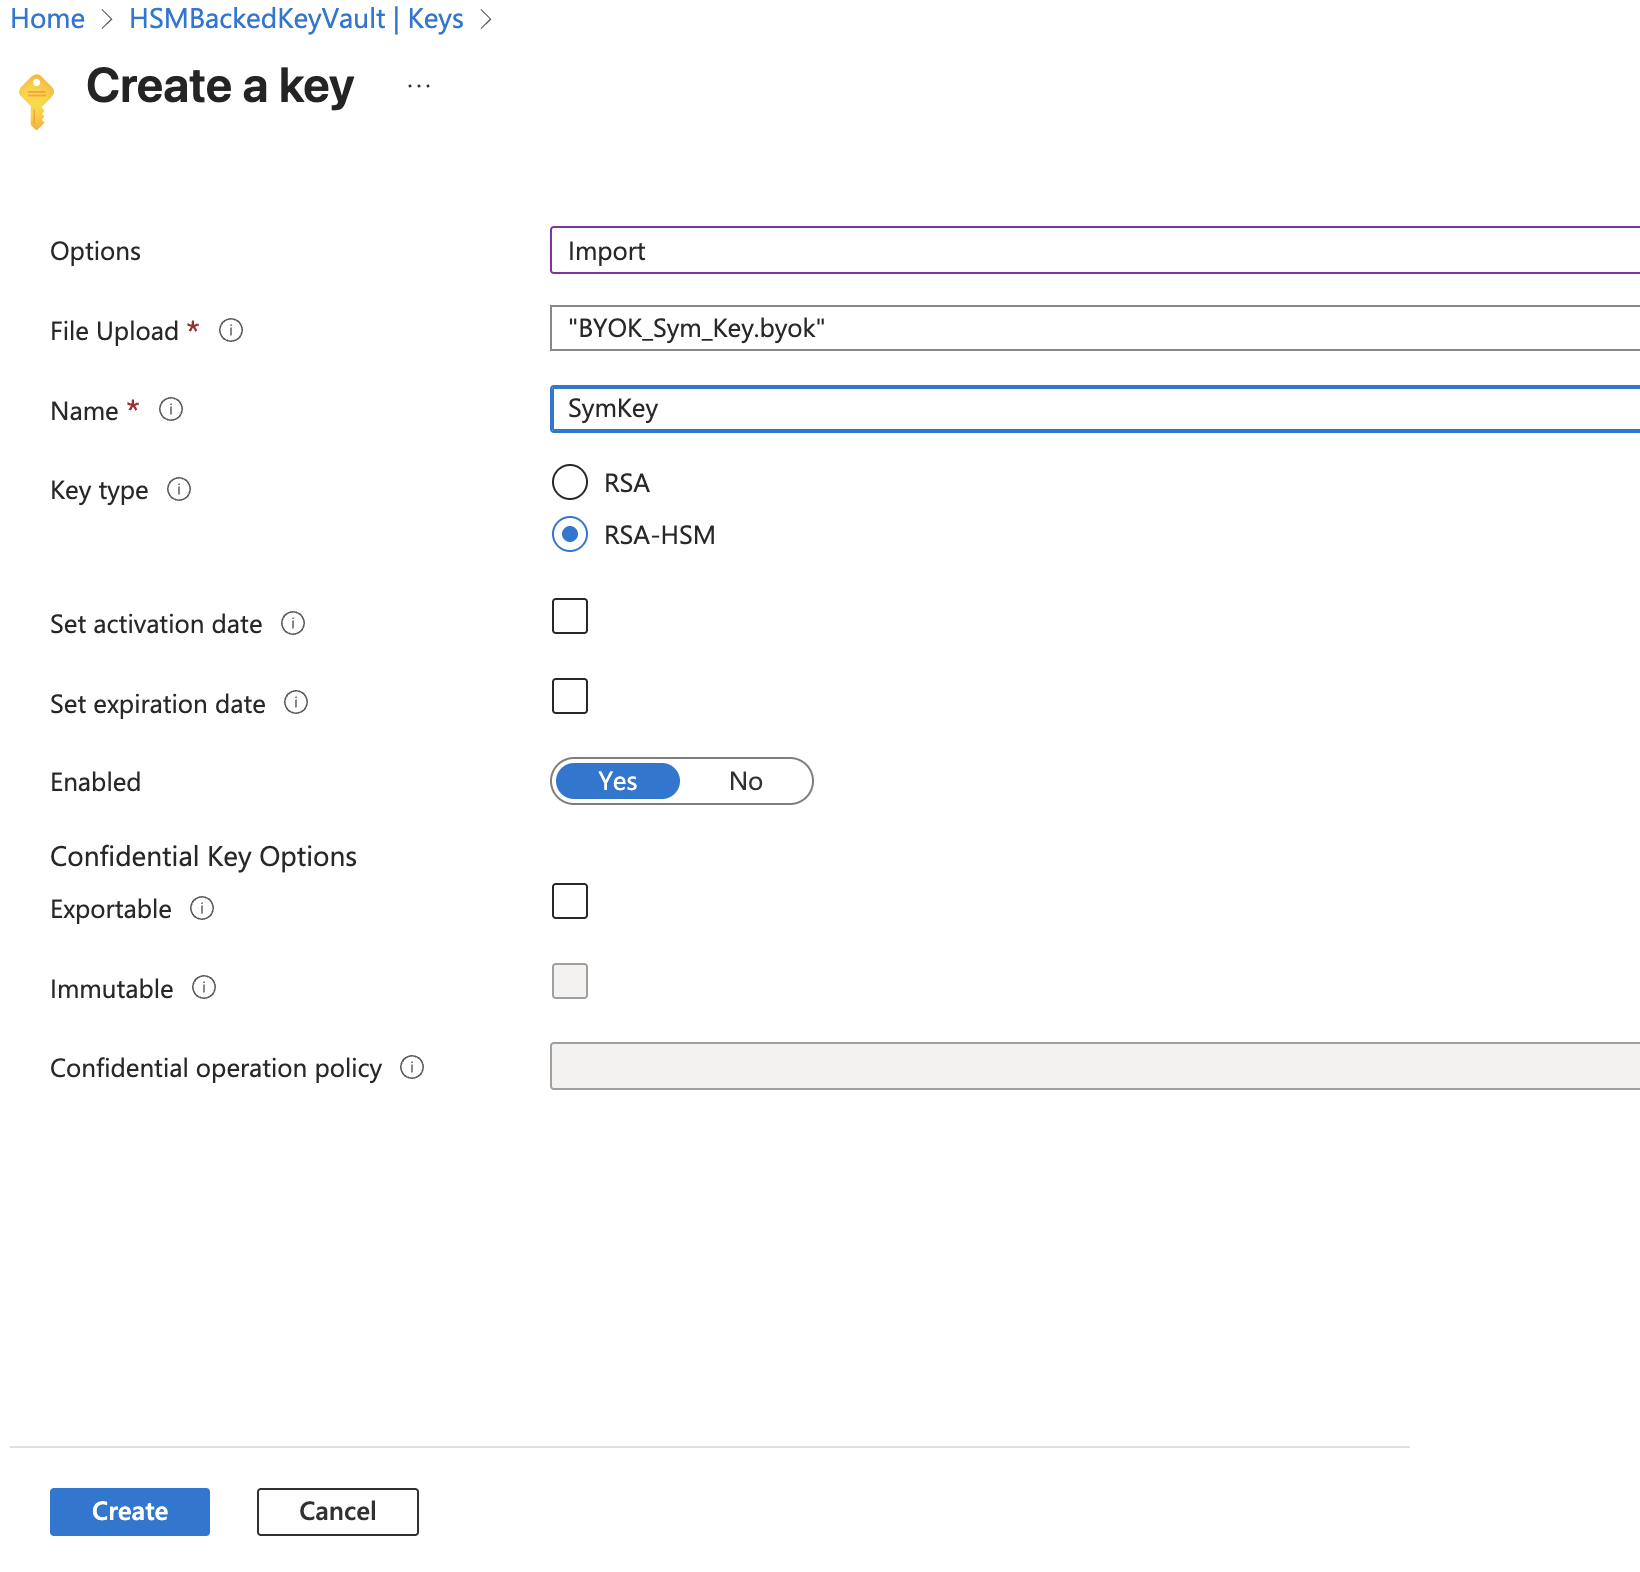
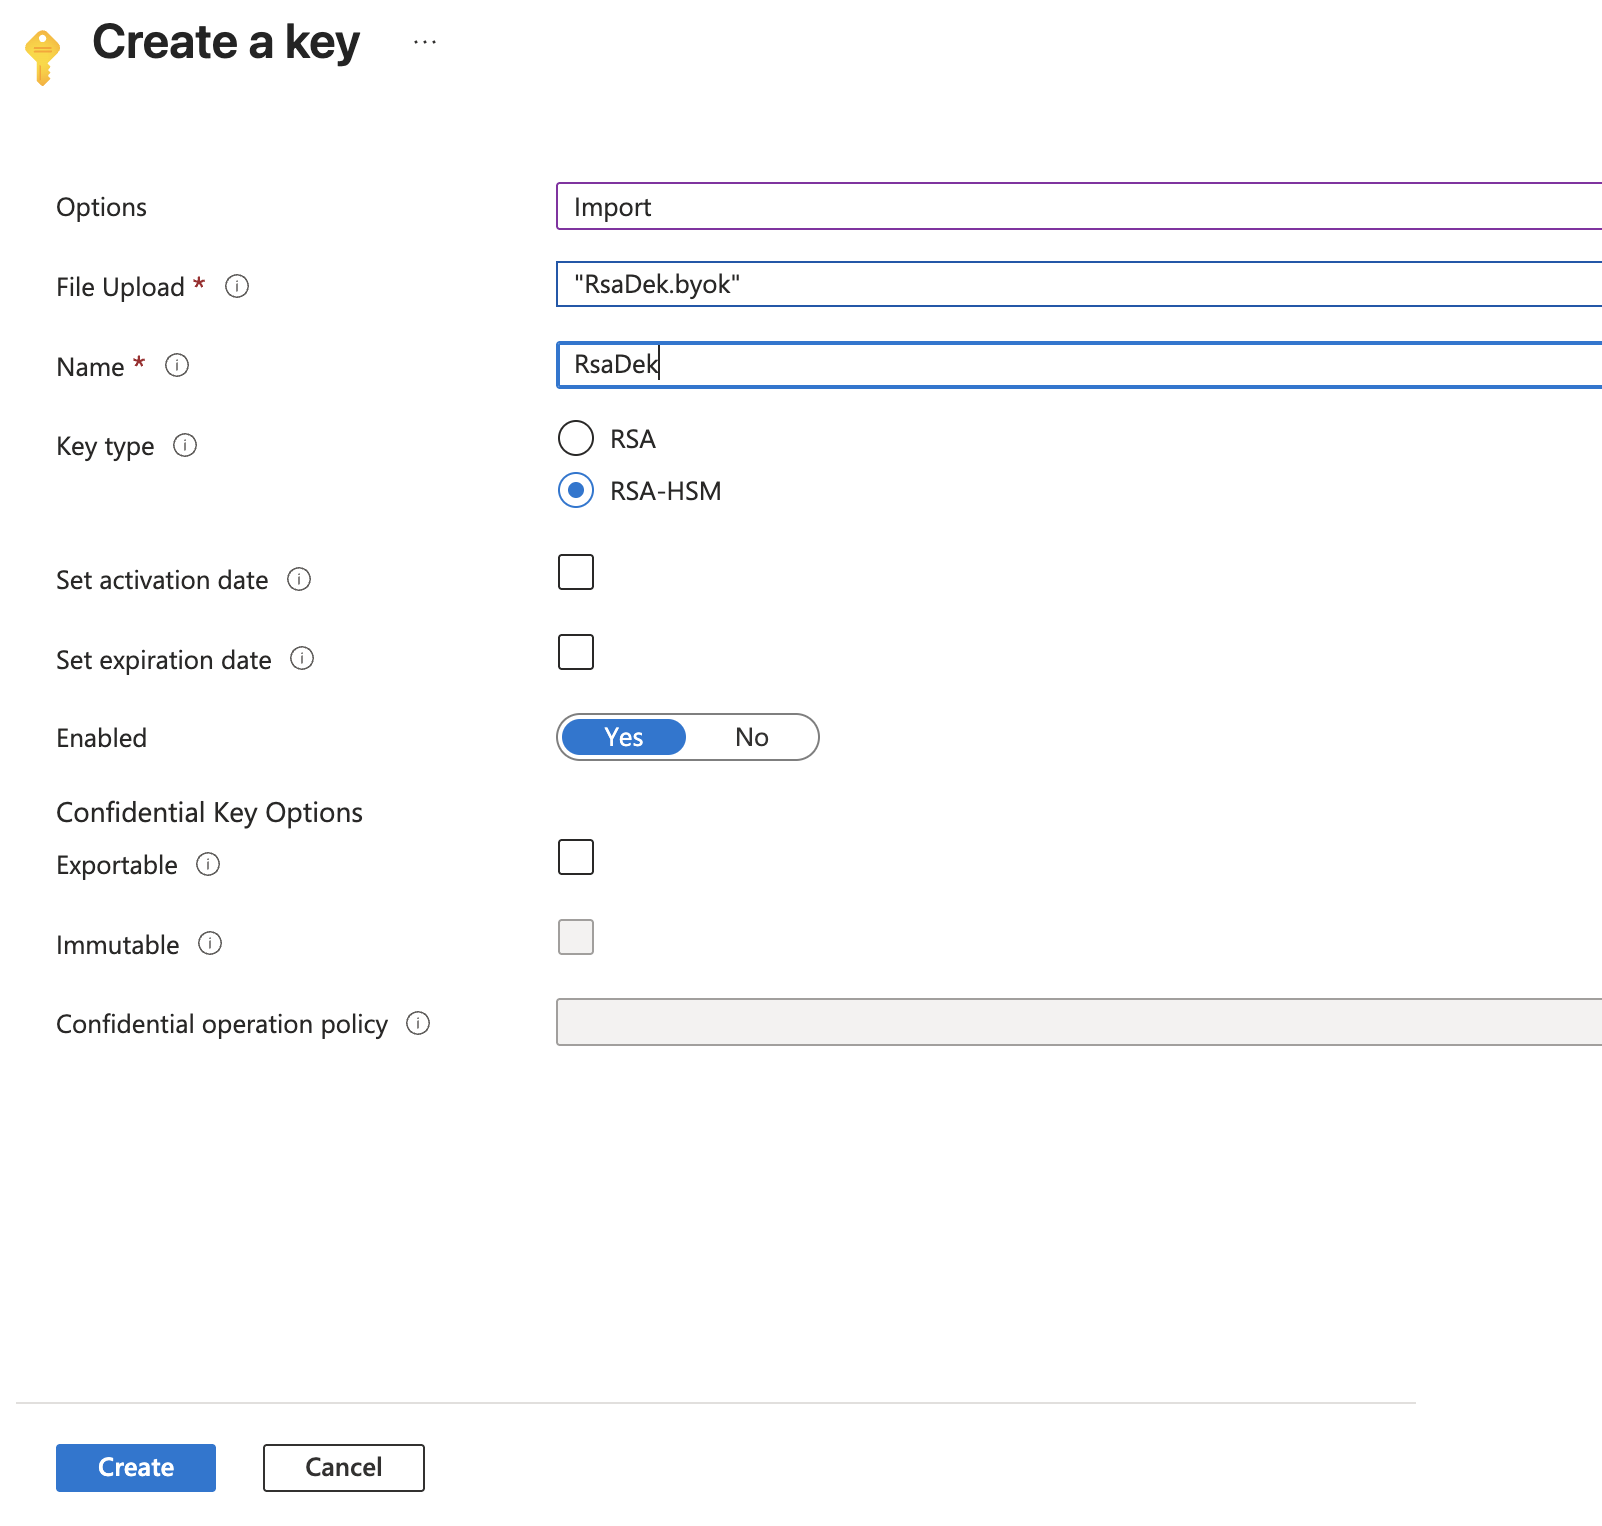
doc

diff --git a/crate/crypto/src/crypto/rsa/ckm_rsa_aes_key_wrap.rs b/crate/crypto/src/crypto/rsa/ckm_rsa_aes_key_wrap.rs
@@ -546,15 +546,22 @@ MIICIjANBgkqhkiG9w0BAQEFAAOCAg8AMIICCgKCAgEAk0HniT34p3O8bD3pyy7p7YASh2Tk7oYag4fb
     const KV_KEY_IDENTIFIER: &str =
         "https://hsmbackedkeyvault.vault.azure.net/keys/KEKForBYOK/5e617a4d39c74f47b0b7d345f6a49d1b";
 
+    #[allow(dead_code)]
+    const EC_PRIVATE_KEY: &str = r"-----BEGIN PRIVATE KEY-----
[2 lines of base64/hex data omitted]
+vKJMiWk/TowEqm5zcvCeTsPlceZdxidTBNB/EPCSxIHpycyzT3pQ4ehI
+-----END PRIVATE KEY-----";
+
     #[test]
     fn test_for_azure_byok() -> CryptoResult<()> {
         log_init(Some("debug"));
         let priv_key = PKey::private_key_from_pem(RSA_PRIVATE_KEY.as_bytes())?;
-        let priv_key_der_bytes = priv_key.private_key_to_pkcs8()?;
+        // let priv_key = PKey::private_key_from_pem(EC_PRIVATE_KEY.as_bytes())?;
+        let secret_bytes = priv_key.private_key_to_pkcs8()?;
 
         let pub_key = PKey::public_key_from_pem(KEK_FOR_BYOK.as_bytes())?;
-        let wrapped_key =
-            ckm_rsa_aes_key_wrap(&pub_key, HashingAlgorithm::SHA1, &priv_key_der_bytes)?;
+        let wrapped_key = ckm_rsa_aes_key_wrap(&pub_key, HashingAlgorithm::SHA1, &secret_bytes)?;
 
         fs::write("/tmp/wrapped_key.bin", &wrapped_key)?;
 

diff --git a/documentation/docs/azure/byok.md b/documentation/docs/azure/byok.md
@@ -1,40 +1,90 @@
 To Bring Your Own Key (BYOK) in Azure Key Vault, 
 follow this [Azure documentation](https://learn.microsoft.com/en-us/azure/key-vault/keys/byok-specification)
 
-The vault must be `premium`, backed by an HSM and the use perform the operations
+The vault must be `premium`, backed by an HSM, and the user performing the operations
 must have the role of `Crypto Officer`.
 
-## Create a Key Encryption Key using the console
+## Create 2 test keys in the Comian KMS
+
+These keys will be exported wrapped by the Azure (KEK) key,
+and imported into Azure Key Vault.
+
+#### Create an RSA Key
+
+The key will be a 4096 bit key.
+
+````shell
+cosmian kms rsa keys create --size_in_bits 4096 TestRSAKey
+
+	  Public key unique identifier: TestRSAKey_pk
+	  Private key unique identifier: TestRSAKey
+````
+
+#### Create an Elliptic Curve Key
+
+The key will be created on the `NIST P-256` curve.
+
+```shell
+cosmian kms ec keys create --curve nist-p256 TestECKey
+
+	  Public key unique identifier: TestECKey_pk
+	  Private key unique identifier: TestECKey
+```
+
+
+## Create an Azure Key Encryption Key (KEK)
+
+This key will be used to wrap the KMS RSA and EC private keys on export.
+
+**Using the console**:
 
 Create a 4096 bit RSA key.
 Make sure to select `Generate Key Encryption Key for importing HSM-protected Keys`.
 
 ![Create a Key Encryption Key using the console](byok_create_kek.png)
 
+**Using the `az` CLI**:
+
+The only supported operation must be `import`.
+
+```shell
+az keyvault key create --kty RSA-HSM --size 4096 --name KEK-BYOK --ops import --vault-name MyPremiumKeyVault
+```
+
+In the `az`output, the key identifier (kid) will be something like:
+"https://mypremiumkeyvault.vault.azure.net/keys/KEK-BYOK/664f5aa2797a4075b8e36ca4500636d8"
+
+Please take note of the `kid` for next steps.
+
+
 ## Export the Key Encryption (Public) Key
 
-Once the key encryption key is created, edit it.
-Download the public key.
+The KEK public key must be exported then imported in the KMS.
 
-The key identifier will be required later.
+**Using the console**:
+
+Edit the KEK by double clicking on it.
+
+Please take note of the key identifier (kid) which will be required later.
+
+Download the public key.
 
 ![Export the Key Encryption (Public) Key](byok_download_kek_public_key.png)
 
-## Create a symmetric key in Cosmian KMS
-
-This is the symmetric key that will be wrapped by the KEK and imported in the Azure Key Vault.
+**Using the `az` CLI**:
 
 ```shell
-cosmian kms sym keys create  --number-of-bits 256 BYOK_Sym_Key
-
-The symmetric key was successfully generated.
-          Unique identifier: BYOK_Sym_Key
+az keyvault key download --name KEKforBYOK --vault-name MyPremiumKeyVault --file KEK-BYOK.publickey.pem
 ```
+
+
+
+
 
 ## Import the wrapping key in Cosmian KMS
 
 ```shell
-cosmian kms rsa keys import --key-format pem --key-usage encrypt --key-usage wrap-key KEKforBYOK-pubkey.pem BYOK_KEK
+cosmian kms rsa keys import --key-format pem --key-usage encrypt --key-usage wrap-key KEK-BYOK-publickey.pem BYOK_KEK
 
 The PublicKey in file KEKforBYOK-pubkey.pem was imported with id: BYOK_KEK
           Unique identifier: BYOK_KEK
@@ -82,3 +132,31 @@ ezzWzwWV6OUuMb...smeL1
   "generator": "Cosmian KMS v5"
 }
 ```
+
+## Upload the transfer blob in Azure Key Vault
+
+Wrapped private RSA keys can be imported using either the console or the `az`  LI.
+Elliptic curve keys can only be imported using the `az` CLI.
+
+#### For an RSA Private Key
+
+**Using the console**:
+
+![Upload the transfer blob in Azure Key Vault](byok_import_jwe.png)
+
+**Using the `az` CLI**:
+
+```shell
+az keyvault key import --vault-name MyPremiumKeyVault --name RsaDek --byok-file RsaDek.byok \
+--ops sign verify
+```
+
+
+#### For an EC Private Key
+The key type and curve must be specified on import
+
+```shell
+az keyvault key import --vault-name MyPremiumKeyVault --name EcDek --byok-file EcDek.byok \
+--kty EC --curve P-256  --ops sign verify
+```
+
